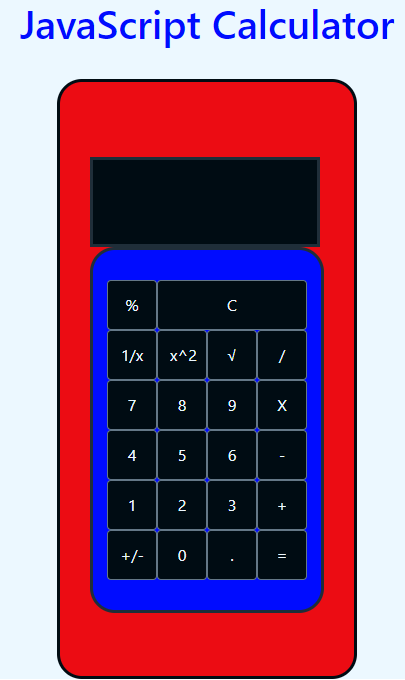
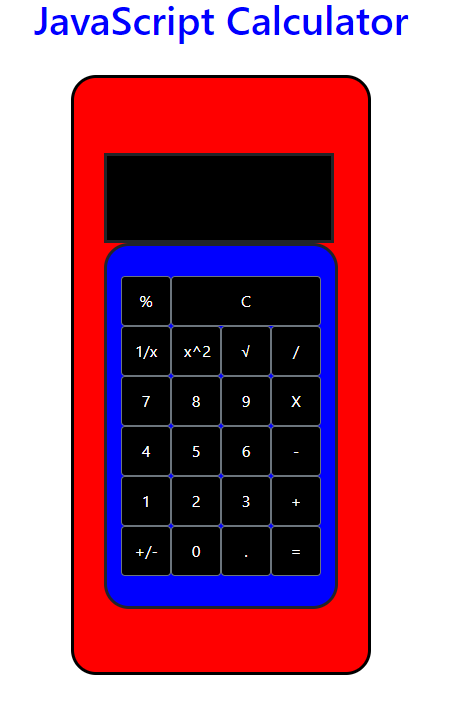
Fixes
-Put image source in the coner
-Fixed CV link (whole div was clickable instead of just the text)
-removed some section tags and header tag

diff --git a/index.html b/index.html
@@ -7,7 +7,7 @@
 <head>
     
   <meta charset="UTF-8">
-  <meta name="viewport" content="width=device-width, initial-scale=1, shrink-to-fit=no">
+  <meta name="viewport" content="width=device-width, initial-scale=1.0">
    
     <!-- Boostrap CSS style sheet -->
     
@@ -67,15 +67,13 @@
             
 </section>
         
-         <!-- Header -->
-        
-        <header>
-            
-            <section id="AboutMe">
-            
+
+<!-- Header --> 
         
 <div class="jumbotron">
+    
   <div class="container">
+      
     <h1 class="display-4 test">Kadeem Caines</h1>
     <p class="lead test2">Web Developer-Java Developer</p>
       
@@ -121,29 +119,30 @@
     
     <h3 class="aboutMe">If you want to view my full CV, check it out on my google drive below.</h3>
     
+    
     <div class="divCV">
         
-    <a href="https://docs.google.com/document/d/13gII2plgPyopzsGN_N_1es6LuxzAIxfPXyrgkqjRQI4/edit?usp=sharing"><h1>CV</h1></a>
+    <a href="https://docs.google.com/document/d/13gII2plgPyopzsGN_N_1es6LuxzAIxfPXyrgkqjRQI4/edit?usp=sharing">CV</a>
         
     </div>
     
+    
+   
+    
     <h3 class="aboutMe">In the mean time, check out my projects below.</h3>
+     
+    <p class="copyRight"> Image taken from: <a href="https://wallpapercave.com/w/wp2343898">https://wallpapercave.com/w/wp2343898 </a> </p>
+   
     
 </div>
                  
-                
- </section>
-            
- </header>
+   <!-- End header-->          
         
-        <section class="projects">
+        <div class="projects">
         
         
-       
+    <h1 class="projectHeader">Projects</h1>
         
-        <div>
-            <h1 class="projectHeader">Projects</h1>
-        </div>
                 
 <div id="projectDiv">
 
@@ -187,7 +186,7 @@ src="https://www.youtube.com/embed/WDb9jzYzxlM">
 
     </div>
             
- </section>
+ </div>
             
         
         <!-- Footer -->

diff --git a/css/website.css b/css/website.css
@@ -1,5 +1,10 @@
+
 html{
     scroll-behavior: smooth;
+}
+
+body{
+    background: darkred; 
 }
 
 
@@ -15,18 +20,27 @@ html{
 
 .navbar{
     background-color: black;
-     position: fixed;
   top: 0;
-  width: 100%; 
+  width: 100%;
+    position:relative;
+    
 }
+
 
 
 .jumbotron{
-    height: 800px;
-    background-image: url("../Pictures/wp2343898.jpg");
+    height: 750px;
+    background-image: url("../Pictures/wp2343898-synthwave-wallpapers.jpg");
+    background-position: center;
     background-size: cover;
     color: rgb(109, 241, 216);
+    position: relative;
+    padding-top: 3px;
+    overflow: hidden;
+    
+      
 }
+
 
 .map{
 text-align: center;
@@ -43,14 +57,12 @@ text-align: center;
 
 .divCV{
    text-align: center;
-    font-family: 'Fredoka One', cursive;
+font-family: 'Fredoka One', cursive;
+    font-size:25px;
 }
 
 
 
-body{
-    background: darkred;  
-}
 
 .aboutMe{
     
@@ -60,6 +72,10 @@ body{
 }
 
 .divContactSection{
+}
+
+.projects{
+    background: darkred; 
 }
 
 
@@ -119,7 +135,12 @@ body{
   height: 0;
 }
 
-
+.copyRight {
+     position: absolute;
+  bottom:-20px;
+  right: 0px;
+font-size: 10px;
+}
 
 a {
     color:red
